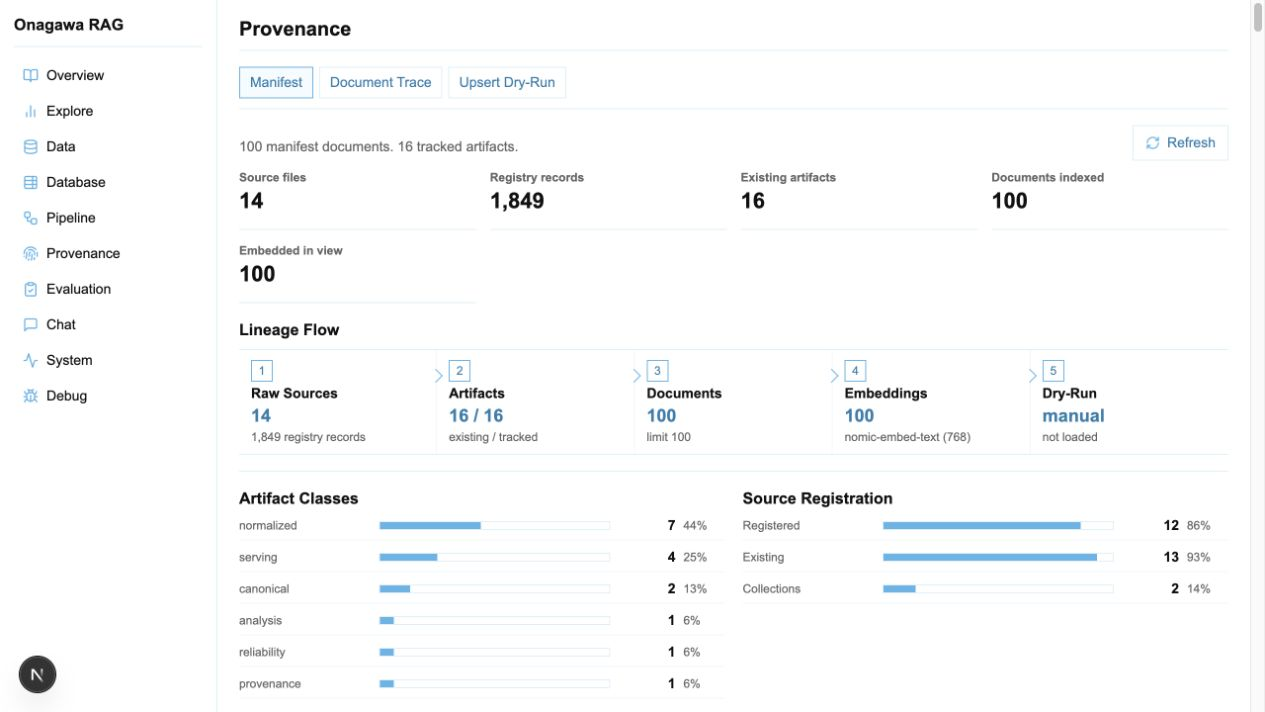
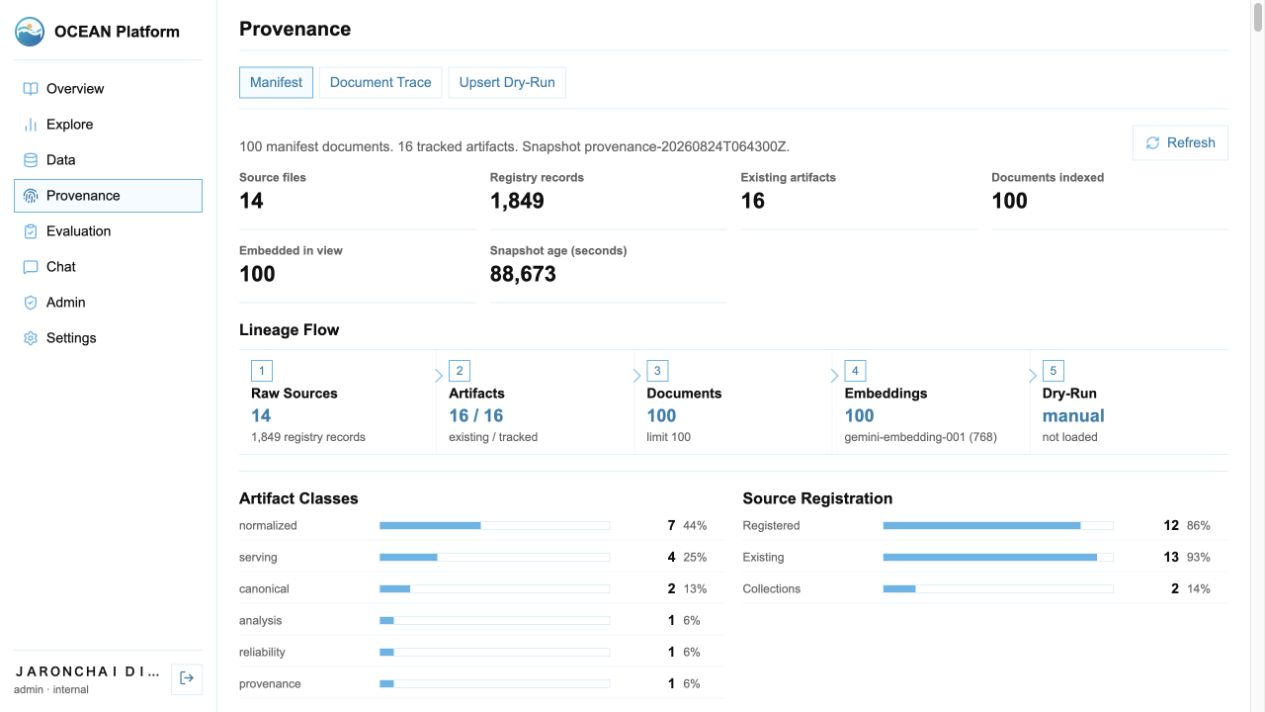
Document OCEAN cloud cutover

diff --git a/handoff.md b/handoff.md
@@ -2,7 +2,7 @@
 
 > **Last updated**: 2026-08-25
 > **Repository**: `jarondlk/ocean-platform`
-> **Current status**: Stable GCP prototype release `v0.1.0` is live on Cloud Run revision `onagawa-source-chat-00012-drc`. The invite-only Next.js + FastAPI application uses Google OIDC, Cloud SQL/pgvector, Vertex AI, verified Provenance snapshots, and manual Cloud Run Jobs. Local Ollama development and the archived Streamlit reference remain supported.
+> **Current status**: OCEAN Platform release `v0.2.0` is live on Cloud Run service `ocean-platform`, revision `ocean-platform-00002-rhc`. The invite-only Next.js + FastAPI application uses Google OIDC, Cloud SQL/pgvector, Vertex AI, verified Provenance snapshots, and manual Cloud Run Jobs. The former service remains available as the phase 8 rollback boundary; local Ollama development and the archived Streamlit reference remain supported.
 
 ---
 
@@ -41,15 +41,20 @@ used only as historical reference and parity material.
 
 ## 2. What Changed Recently
 
-### GCP Prototype Release and Admin Workspace (2026-08-25)
+### OCEAN Platform Cutover (2026-08-25)
 
-- Stable GitHub release `v0.1.0` targets commit `2820f128` on `gcp-dev`.
-- Cloud Build `ce129a4f-4059-4e21-8bd1-7702fb34cdac` produced the immutable
-  images deployed as Cloud Run revision `onagawa-source-chat-00012-drc` in
-  `asia-northeast1`. It receives 100% of traffic; revision
-  `onagawa-source-chat-00011-4pd` remains the immediate rollback target.
-- GitHub records a successful `production` deployment for the same commit and
-  live Cloud Run URL.
+- Release `v0.2.0` establishes **OCEAN Platform** — Ocean Coastal Ecosystem
+  Archive Nexus (OCEAN) — as the canonical product and repository identity.
+- Cloud Build `d2b38c01-526a-4827-bd9d-2d05948e2350` passed the full backend,
+  frontend, and image pipeline. Targeted frontend build
+  `2754b49a-6963-4efb-91c2-bdeb3d4a97c2` produced the public-asset fix.
+- Cloud Run service `ocean-platform`, revision `ocean-platform-00002-rhc`,
+  receives 100% of its traffic at the OCEAN URL. The former
+  `onagawa-source-chat` service remains unchanged as rollback coverage while
+  data-plane resource renames are deferred to phase 8.
+- Google OIDC retains the former origin/callback for rollback and adds the
+  OCEAN origin/callback. Administrator sign-in and every user/admin route were
+  validated against the new service.
 - The primary navigation now has one **Admin** entry. `/admin` contains
   Overview, Users, Feedback, Pipeline, Database, System, and Debug sections.
   `/pipeline`, `/database`, `/system`, and `/debug` are compatibility
@@ -59,7 +64,7 @@ used only as historical reference and parity material.
   behind the manual `onagawa-evaluation` Cloud Run Job boundary. Execution
   `onagawa-evaluation-rw7mm` completed the tagged two-call Baseline/Full smoke
   run with zero errors, and the eighth saved run is visible in the UI.
-- Local release validation passed 454 backend tests with 3 skipped checks,
+- Local release validation passed 455 backend tests with 3 skipped checks,
   Ruff, frontend typecheck/build, and the Cloud Build test/build pipeline.
 - No schema migration, pipeline mutation, embedding refresh, quota increase,
   scale increase, or budget increase accompanied the Admin release.
@@ -84,8 +89,8 @@ from the repository root when intentionally run from the archive path.
 - `README.md` documents linked cross-source evidence, answer trust reports,
   invite-only authorization, feedback review, production safeguards, and the
   current 450+ test suite.
-- `README.md` now includes the 2026-08-25 GCP release status and retains the
-  July local-prototype screenshots as explicitly dated reference material.
+- `README.md` now includes the 2026-08-25 OCEAN release status and screenshots
+  captured from the authenticated Cloud Run service.
 - `docs/ROADMAP.md` records the manual batch-ingestion direction and cloud UI
   migration direction, including completed citation rendering, linked evidence,
   trust report, and screenshot refresh work.
@@ -262,13 +267,13 @@ documents retain their embeddings.
 
 ### Prototype Screenshot Refresh
 
-- Replaced historical Streamlit-era README screenshots with live Next.js/FastAPI
-  prototype captures from 2026-07-21.
+- Replaced the prior local captures with authenticated OCEAN Platform Cloud Run
+  screenshots from 2026-08-25.
 - Current screenshot files under `docs/screenshots/`:
   `prototype_overview.png`, `prototype_explore_evidence.png`,
   `prototype_data_analysis.png`, `prototype_provenance.png`, and
   `prototype_chat_trust_report.png`.
-- The Chat screenshot was captured after a real local-model query and shows the
+- The Chat screenshot was captured after a real Vertex AI query and shows the
   Answer Trust Report with context-aware citation requirements.
 
 ### Active Stack Clarified
@@ -572,14 +577,14 @@ Latest local verification for this audit:
 
 | Check | Result |
 | --- | --- |
-| `pytest` | 454 passed, 3 skipped in the `v0.1.0` release validation; 74.31% aggregate coverage |
+| `pytest` | 455 passed, 3 skipped in the OCEAN rebrand validation; 74.31% aggregate coverage |
 | Coverage boundary | 74.31% aggregate; required floor is 70% |
 | PostgreSQL metadata integration | Passed against migrated local PostgreSQL/pgvector |
 | Security-boundary Ruff check | Passed |
 | `npm run typecheck` | Passed |
 | Production-configured `npm run build` | Passed |
 | Production API and frontend container builds | Passed; non-root runtime and pinned frontend dependency versions confirmed |
-| Browser route smoke test | Passed all 12 registered routes in local preview mode with no post-fix console errors |
+| Browser route smoke test | Passed all 14 user/admin routes on the authenticated OCEAN Cloud Run service with no access-denied or application-error states |
 | Browser interaction smoke test | Explore search, all Data views, database probe, pipeline preflight, provenance dry-run, evaluation views, and citation-grounded chat passed |
 | Production frontend container browser test | Passed overview data load and state-changing retrieval probe; strict CSP and 403 cross-origin rejection confirmed |
 | OIDC browser integration | Passed authorization-code flow with PKCE/state/nonce, invitation consumption, viewer/researcher/admin sessions, role navigation/direct-route gates, sign-out, audit records, and immediate suspension using an isolated local issuer |
@@ -672,7 +677,7 @@ git diff --check
 | Production operations remain operator-managed | Cloud Run/Cloud SQL are live; secret rotation, retention enforcement, posted-cost review, alerting, and incident drills remain operator responsibilities |
 | Ollama is local-only | GCP uses native Vertex AI; host/container Ollama remains an optional local-development runtime |
 | Streamlit is archived | Do not add new active features to `archive/legacy-streamlit/app.py` |
-| Screenshots are point-in-time | `docs/screenshots/` contains local prototype captures from 2026-07-21 and predates the consolidated Admin workspace |
+| Screenshots are point-in-time | `docs/screenshots/` contains authenticated OCEAN Cloud Run captures from 2026-08-25 |
 | Trust report is deterministic | The current audit checks supplied evidence and citations; it is not an LLM-as-judge semantic faithfulness scorer |
 | Integration scope is focused | PostgreSQL migrations, metadata, shared rate limiting, backup/restore, and repeated upserts are integration-tested; most RAG and scientific tests remain synthetic |
 | Auth.js beta | Auth.js 5 is exact-pinned at beta.32; regression-test any upgrade |

diff --git a/README.md b/README.md
@@ -30,14 +30,14 @@ service.
 
 Current managed milestone:
 
-- GitHub release [`v0.1.0`](https://github.com/jarondlk/ocean-platform/releases/tag/v0.1.0)
-  is the first stable GCP prototype release and targets commit `2820f128` on
-  `gcp-dev`.
-- Cloud Run revision `onagawa-source-chat-00012-drc` serves 100% of production
-  traffic in `asia-northeast1`; `onagawa-source-chat-00011-4pd` remains the
-  immediate rollback revision.
+- GitHub release [`v0.2.0`](https://github.com/jarondlk/ocean-platform/releases/tag/v0.2.0)
+  is the OCEAN Platform branding and parallel-service cutover release.
+- Cloud Run service `ocean-platform`, revision `ocean-platform-00002-rhc`,
+  serves 100% of its traffic in `asia-northeast1`. The former
+  `onagawa-source-chat` service remains available as the bounded rollback
+  application during the phase 8 infrastructure transition.
 - The live application is
-  [`https://onagawa-source-chat-469489188516.asia-northeast1.run.app`](https://onagawa-source-chat-469489188516.asia-northeast1.run.app).
+  [`https://ocean-platform-469489188516.asia-northeast1.run.app`](https://ocean-platform-469489188516.asia-northeast1.run.app).
 - GitHub records the successful deployment against the `production`
   environment while `gcp-dev` remains the development branch and `main` the
   stable integration branch.
@@ -451,9 +451,8 @@ workflow:
 
 ### Current Prototype Screenshots
 
-Captured from the local Next.js/FastAPI prototype on **2026-07-21**. These
-remain accurate for the scientific workbenches but predate the consolidated
-Admin workspace and managed GCP release.
+Captured from the authenticated OCEAN Platform Cloud Run deployment on
+**2026-08-25** after the parallel-service cutover and full route validation.
 
 ![Current overview](docs/screenshots/prototype_overview.png)
 *Overview page with corpus counts, source balance, runtime signals, and active
@@ -472,7 +471,7 @@ interface.*
 source registration diagnostics.*
 
 ![Current chat trust report](docs/screenshots/prototype_chat_trust_report.png)
-*Chat Trust Report after a real local-model query, showing trust level,
+*Chat Trust Report after a real Vertex AI query, showing trust level,
 context-aware citation requirements, and citation resolution.*
 
 ---
@@ -823,7 +822,7 @@ three explicitly gated/environment-dependent checks:
 Latest verified local result:
 
 ```text
-454 passed, 3 skipped
+455 passed, 3 skipped
 ```
 
 ---

diff --git a/docs/DEPLOYMENT.md b/docs/DEPLOYMENT.md
@@ -6,16 +6,19 @@ The managed GCP prototype is live. It uses a public Cloud Run frontend with a
 private FastAPI sidecar, Cloud SQL PostgreSQL/pgvector, Cloud Storage, Secret
 Manager, Cloud Run Jobs, Google OIDC, and Vertex AI. The production application
 URL is
-[`https://onagawa-source-chat-469489188516.asia-northeast1.run.app`](https://onagawa-source-chat-469489188516.asia-northeast1.run.app).
+[`https://ocean-platform-469489188516.asia-northeast1.run.app`](https://ocean-platform-469489188516.asia-northeast1.run.app).
 See [`deploy/gcp/README.md`](../deploy/gcp/README.md) for templates and current
 operations.
 
 Current release record as of 2026-08-25:
 
-- stable GitHub release `v0.1.0`, source commit `2820f128` on `gcp-dev`;
-- Cloud Build `ce129a4f-4059-4e21-8bd1-7702fb34cdac`;
-- serving revision `onagawa-source-chat-00012-drc` at 100% traffic;
-- immediate rollback revision `onagawa-source-chat-00011-4pd`;
+- OCEAN Platform GitHub release `v0.2.0`;
+- full Cloud Build `d2b38c01-526a-4827-bd9d-2d05948e2350` and targeted
+  frontend build `2754b49a-6963-4efb-91c2-bdeb3d4a97c2`;
+- Cloud Run service `ocean-platform`, serving revision
+  `ocean-platform-00002-rhc` at 100% traffic;
+- former `onagawa-source-chat` service retained as the phase 8 rollback
+  application;
 - Cloud Run minimum zero, maximum one instance, concurrency 20; and
 - successful GitHub `production` deployment status.
 
@@ -73,8 +76,8 @@ AUTH_URL=https://rag.example.org
 AUTH_TRUST_HOST=false
 AUTH_SECRET=<independent random value>
 INTERNAL_AUTH_SECRET=<different independent random value>
-INTERNAL_AUTH_ISSUER=onagawa-source-chat-frontend
-INTERNAL_AUTH_AUDIENCE=onagawa-source-chat-api
+INTERNAL_AUTH_ISSUER=ocean-platform-frontend
+INTERNAL_AUTH_AUDIENCE=ocean-platform-api
 
 OIDC_ISSUER=https://identity.example.org
 OIDC_CLIENT_ID=<provider client id>
@@ -83,10 +86,10 @@ OIDC_PROVIDER_NAME=Managed identity provider
 OIDC_PROVIDER_ID=oidc
 
 CORS_ORIGINS=https://rag.example.org
-POSTGRES_USER=onagawa
+POSTGRES_USER=ocean
 POSTGRES_PASSWORD=<random database password>
-POSTGRES_DB=onagawa_rag
-DATABASE_URL=postgresql://onagawa:<url-encoded-password>@postgres:5432/onagawa_rag
+POSTGRES_DB=ocean_platform
+DATABASE_URL=postgresql://ocean:<url-encoded-password>@postgres:5432/ocean_platform
 OLLAMA_BASE_URL=http://<private-ollama-host>:11434
 ```
 

diff --git a/deploy/gcp/AUTHENTICATION.md b/deploy/gcp/AUTHENTICATION.md
@@ -2,10 +2,10 @@
 
 ## Deployed status
 
-Google OIDC is live in project `data-infra-infobio` at the production Cloud Run
-URL. The application remains public only at the Cloud Run invocation layer;
-Next.js requires an Auth.js session for application pages and FastAPI remains a
-localhost sidecar protected by short-lived internal JWTs.
+Google OIDC is live in project `data-infra-infobio` at the OCEAN Platform Cloud
+Run URL. The application remains public only at the Cloud Run invocation layer;
+Next.js requires an Auth.js session for application pages and FastAPI remains
+a localhost sidecar protected by short-lived internal JWTs.
 
 The invited administrator and the approved researcher have both completed
 provider-backed login. The administrator is resolved as `admin` / `internal`,
@@ -13,7 +13,7 @@ and `akane.kitamura.e7@tohoku.ac.jp` is active as `researcher` / `research`.
 The consolidated `/admin` workspace is absent for the researcher through both
 navigation and backend authorization. No local password store, downloaded
 service-account key, mock login, IAP layer, or Identity Platform tenant was
-introduced for `v0.1.0`.
+introduced for `v0.2.0`.
 
 ## Selected prototype path
 
@@ -97,7 +97,9 @@ Do not enable IAP on the same prototype revision. IAP would add a second login
 and requires a deliberate adapter from IAP identity assertions to the
 application's invitation and role records.
 
-The `v0.1.0` rollout completed the callback, invitation/role resolution,
+The `v0.2.0` rollout registered the OCEAN JavaScript origin and Google callback
+while retaining the former service values for rollback. It completed the
+callback, invitation/role resolution,
 administrator navigation, approved researcher login, logout/re-login, unknown
 session redirect, and log-hygiene checks. Continue treating suspension,
 uninvited-user behavior, provider recovery/MFA policy, and future identity

diff --git a/deploy/gcp/MIGRATION_PLAN.md b/deploy/gcp/MIGRATION_PLAN.md
@@ -37,15 +37,15 @@ documents now have 768-dimensional `gemini-embedding-001` embeddings with
 provider provenance. Authenticated chat traffic uses `gemini-3.6-flash` on
 Vertex AI through workload identity.
 
-The current application milestone is stable GitHub release `v0.1.0`, source
-commit `2820f128`. Cloud Build
-`ce129a4f-4059-4e21-8bd1-7702fb34cdac` produced serving revision
-`onagawa-source-chat-00012-drc`, which receives 100% of traffic. Revision
-`onagawa-source-chat-00011-4pd` remains the immediate rollback target. GitHub
-deployment `6077080890` records status `success` for the `production`
-environment. The service still scales from zero to one instance with
-concurrency 20; no budget, quota, database tier, or model ceiling changed for
-this release.
+The current application milestone is OCEAN Platform release `v0.2.0`. Full
+Cloud Build `d2b38c01-526a-4827-bd9d-2d05948e2350` and targeted frontend
+build `2754b49a-6963-4efb-91c2-bdeb3d4a97c2` produced Cloud Run service
+`ocean-platform`, serving revision `ocean-platform-00002-rhc` at 100% traffic.
+The former `onagawa-source-chat` service remains unchanged as the immediate
+application rollback while phase 8 defers Artifact Registry, service-account,
+Cloud SQL, job, secret, and bucket renames. The service still scales from zero
+to one instance with concurrency 20; no budget, quota, database tier, or model
+ceiling changed for this release.
 
 ## Cost-control model
 

diff --git a/deploy/gcp/README.md b/deploy/gcp/README.md
@@ -16,17 +16,19 @@ place before the foundation or any runtime component is created.
 Verified on 2026-08-25:
 
 - project `data-infra-infobio`, region `asia-northeast1`;
-- stable GitHub release `v0.1.0`, source commit `2820f128`;
-- Cloud Build `ce129a4f-4059-4e21-8bd1-7702fb34cdac`;
-- Cloud Run service `onagawa-source-chat`, revision
-  `onagawa-source-chat-00012-drc`, 100% traffic;
-- rollback revision `onagawa-source-chat-00011-4pd`;
+- OCEAN Platform GitHub release `v0.2.0`;
+- full Cloud Build `d2b38c01-526a-4827-bd9d-2d05948e2350` and targeted
+  frontend build `2754b49a-6963-4efb-91c2-bdeb3d4a97c2`;
+- Cloud Run service `ocean-platform`, revision `ocean-platform-00002-rhc`,
+  100% traffic;
+- former `onagawa-source-chat` service retained as the phase 8 rollback
+  application;
 - Cloud SQL instance `onagawa-postgres` is PostgreSQL 16 and RUNNABLE;
 - minimum zero/maximum one service instance, concurrency 20; and
 - GitHub `production` deployment status `success`.
 
 The live URL is
-[`https://onagawa-source-chat-469489188516.asia-northeast1.run.app`](https://onagawa-source-chat-469489188516.asia-northeast1.run.app).
+[`https://ocean-platform-469489188516.asia-northeast1.run.app`](https://ocean-platform-469489188516.asia-northeast1.run.app).
 
 ## Target topology
 

diff --git a/docs/SECURITY.md b/docs/SECURITY.md
@@ -190,13 +190,15 @@ to audit metadata or application logs.
 
 ## Authorization MVP Release Checklist
 
-Current GCP evidence as of 2026-08-25: stable release `v0.1.0` runs with
+Current GCP evidence as of 2026-08-25: OCEAN Platform release `v0.2.0` runs with
 `DEPLOYMENT_ENV=production`, `AUTH_MODE=required`, Google OIDC, distinct Secret
 Manager-backed signing secrets, private FastAPI/Cloud SQL connectivity, and
 default-deny API authorization. The administrator and approved researcher have
-completed real-provider login, all Admin sections were smoke-tested, Cloud Run
-emitted no error-level or 5xx entries during acceptance, CI and CodeQL are
-enabled, and dependency alerts were resolved before the release.
+completed real-provider login; the OCEAN origin and callback are registered
+while the former values remain for rollback; all user and Admin sections were
+smoke-tested; Cloud Run emitted no error-level or 5xx entries during
+acceptance; CI and CodeQL are enabled; and dependency alerts were resolved
+before the release.
 
 The checklist remains reusable for every future release. It is intentionally
 not marked permanently complete: secret rotation, dependency state, callback

diff --git a/docs/TESTING.md b/docs/TESTING.md
@@ -2,12 +2,14 @@
 
 ## Current release evidence
 
-For stable release `v0.1.0` and source commit `2820f128`, the local backend
-suite passed 454 tests with 3 skipped checks and 74.31% aggregate coverage.
-Ruff, frontend typecheck, the production Next.js build, Cloud Build, Cloud Run
-candidate checks, authenticated Admin navigation, and the bounded external
-evaluation smoke test also passed. CI runs for pushes to `main` and `gcp-dev`
-and for pull requests targeting `main`/`master`.
+For OCEAN Platform release `v0.2.0`, the local backend suite passed 455 tests
+with 3 skipped checks and 74.31% aggregate coverage. All three gated pgvector
+integration tests passed against a disposable migrated database. Ruff,
+frontend typecheck, the 24-route production Next.js build, full Cloud Build,
+targeted frontend Cloud Build, public-boundary checks, Google OIDC, all 14
+authenticated user/admin routes, and a real Vertex AI trust-report query also
+passed. CI runs for pushes to `main` and `gcp-dev` and for pull requests
+targeting `main`/`master`.
 
 This is a point-in-time release record, not a substitute for rerunning the
 commands below after changes.

diff --git a/docs/ROADMAP.md b/docs/ROADMAP.md
@@ -33,11 +33,11 @@ workflow that can later become automated.
   CORS, or local-persistence configuration.
 - The bounded GCP prototype is live on Cloud Run with Cloud SQL, Cloud Storage,
   Secret Manager, Cloud Run Jobs, Vertex AI, immutable Provenance snapshots,
-  and stable GitHub release `v0.1.0`.
+  and OCEAN Platform release `v0.2.0`.
 - Operational administration is consolidated under `/admin` with Users,
   Feedback, Pipeline, Database, System, and Debug sections.
-- The README screenshot set was refreshed from the live Next.js/FastAPI
-  local prototype on 2026-07-21; it predates the Admin consolidation.
+- The README screenshot set was refreshed from the authenticated OCEAN
+  Platform Cloud Run deployment on 2026-08-25.
 
 ## Near-Term Priority: Manual Scheduled Batch Updates
 
